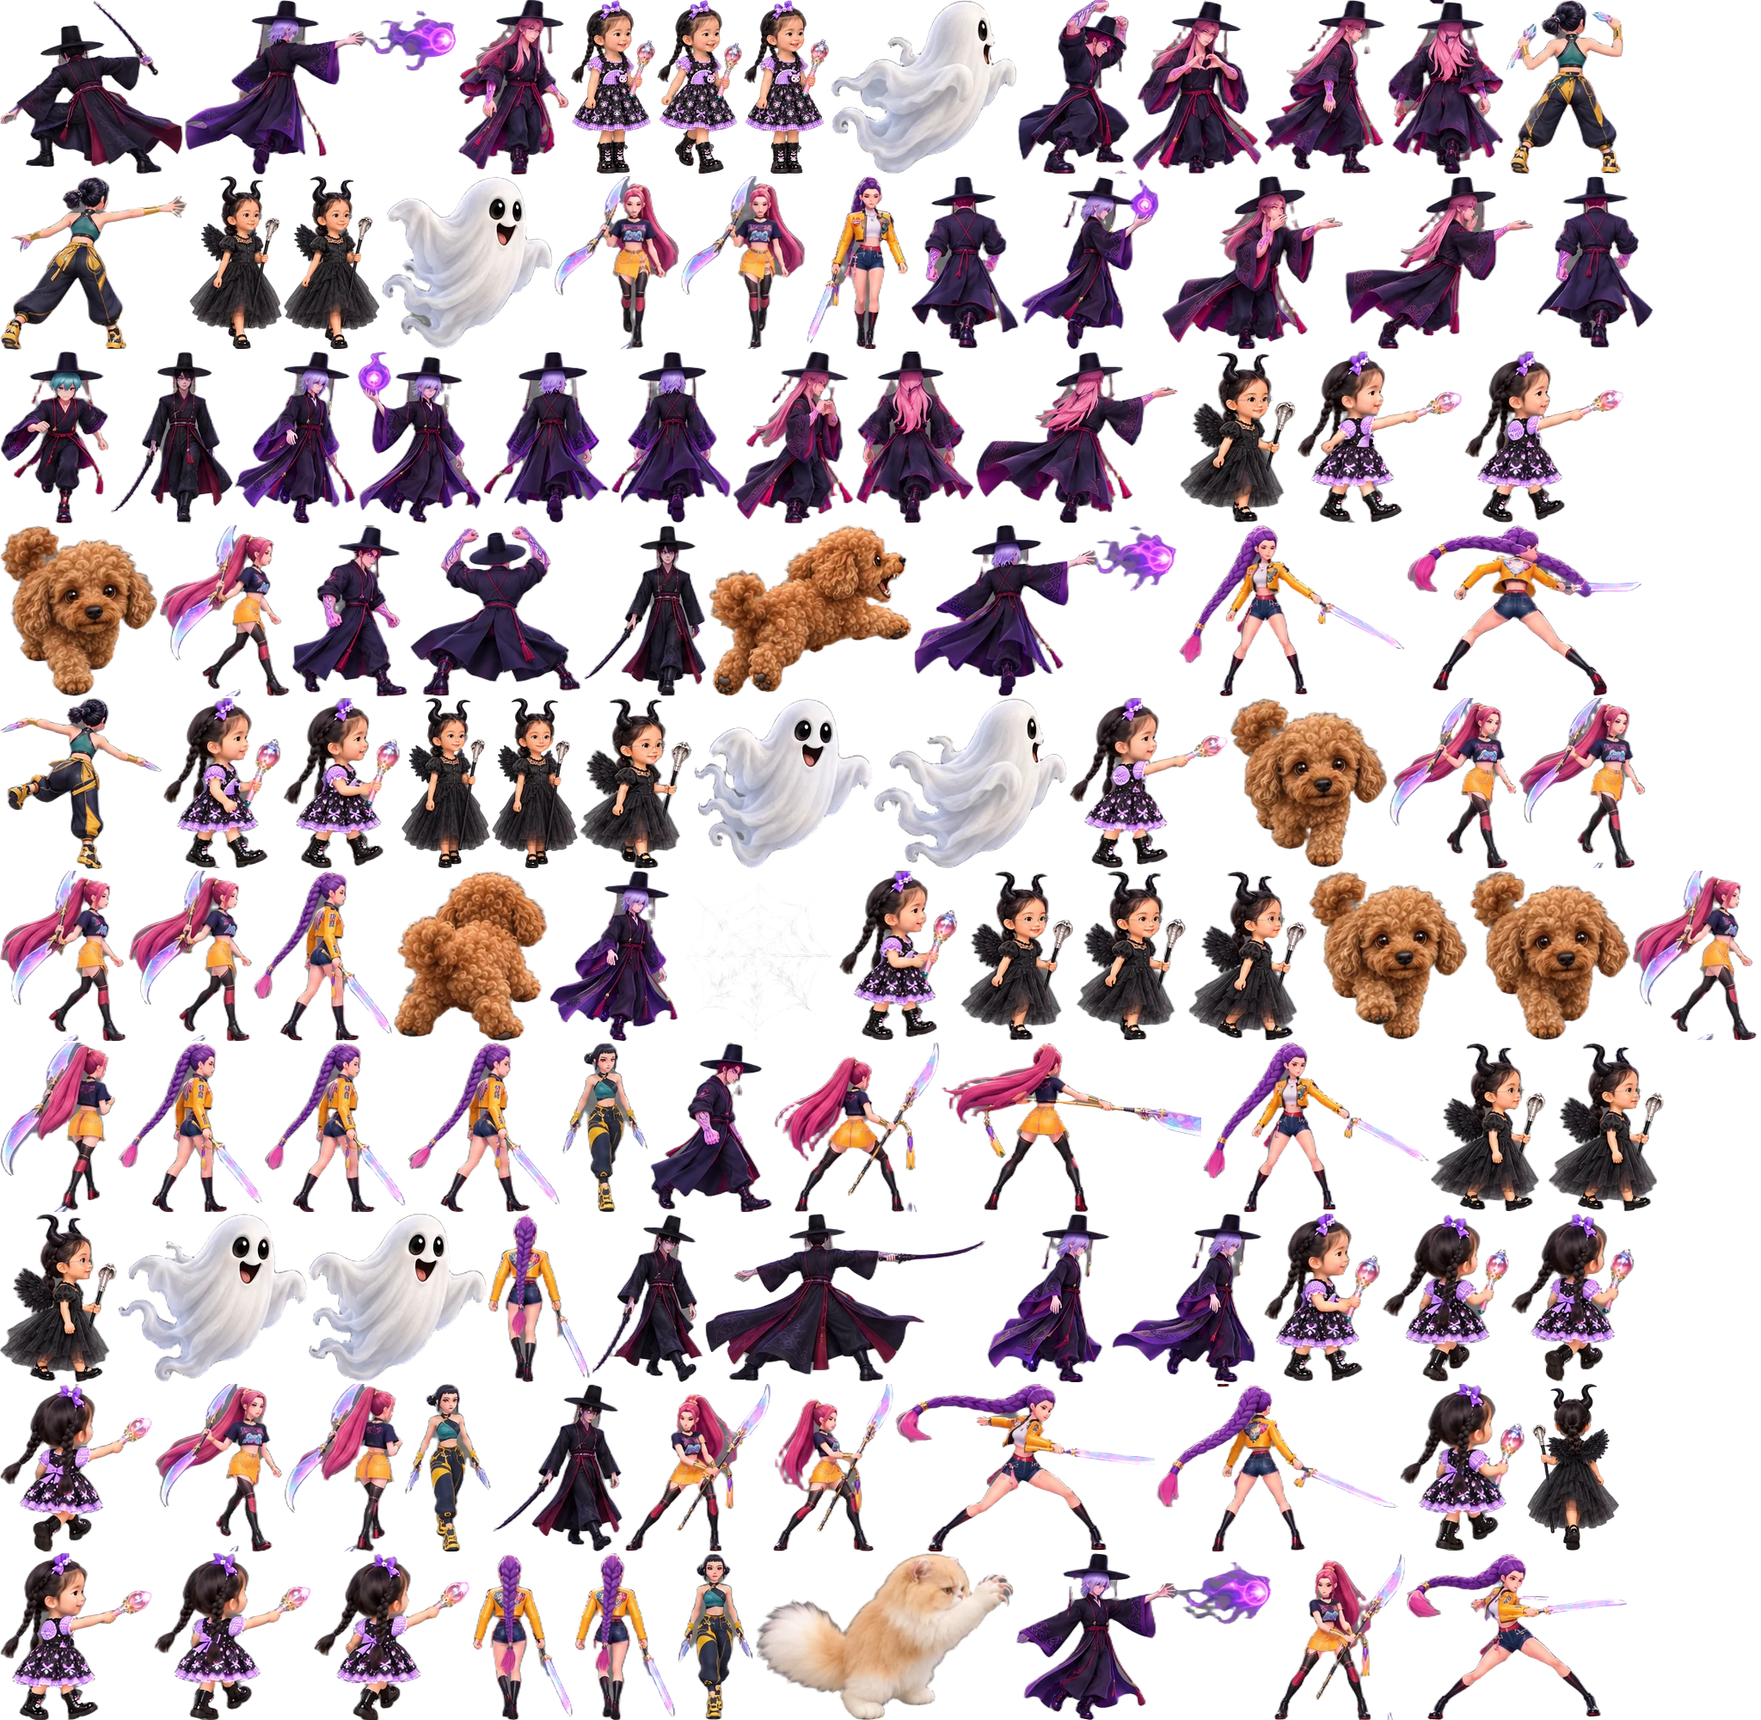
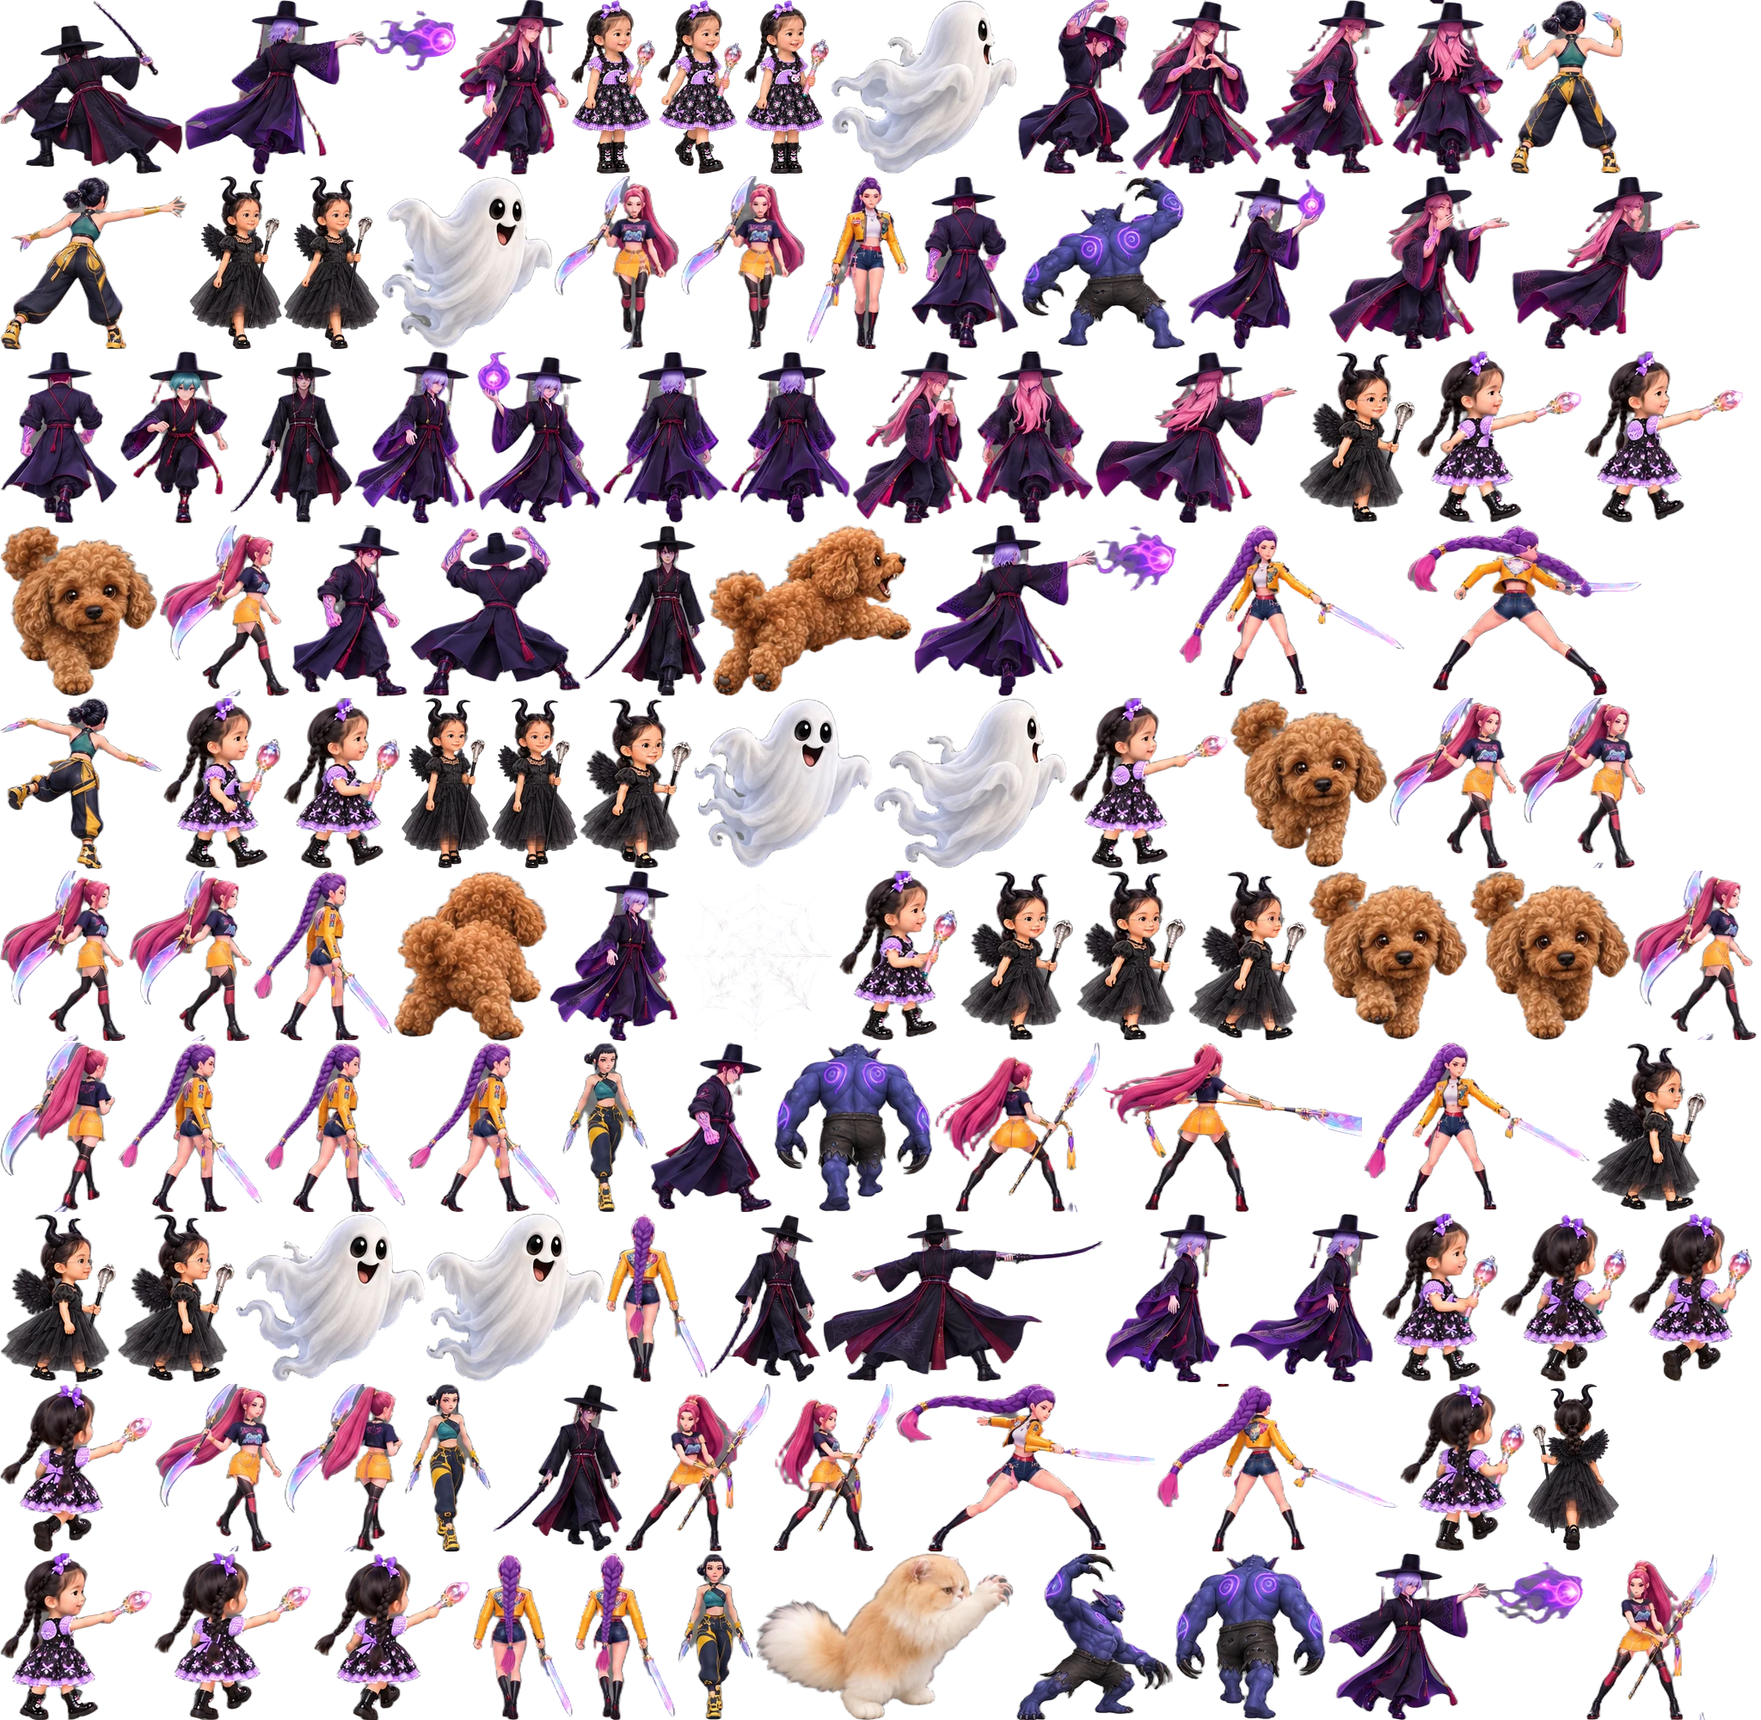
v3: màn 5 có hậu trường cho quỷ chờ (không bắn trúng được), đồ rơi xuống sân khấu, Gwi Ma gầm gọi quỷ con
Claude-Session: https://claude.ai/code/session_018CdmaGRbzjkocUF5TVUzxd

Changed region(s): [[0.0, 0.5887, 1.0, 0.8056], [0.0, 0.093, 1.0, 0.3098], [0.5625, 0.8986, 0.9688, 1.0]]

diff --git a/index.html b/index.html
@@ -485,13 +485,15 @@
     ghost:    { hp: 2, en: 7,  spd: 95,  reach: 380, prep: 0.5, atk: 0.55, cd: 1.3, fly: true, hgt: 110 },
     bat:      { hp: 1, en: 5,  spd: 150, reach: 460, prep: 0.35, atk: 0.6, cd: 1.5, fly: true, hgt: 170 },
     // the Saja Boys as demons (level 5): saja = fighting style, see updateSaja. heavy: barely knocked back
-    saja_mystery: { hp: 26, en: 20, spd: 150, prep: 0.5, atk: 0.4, cd: 2.6, saja: "phase", heavy: true, name: "Mystery" },
-    saja_abby:    { hp: 32, en: 20, spd: 120, prep: 0.7, atk: 0.45, cd: 3.0, saja: "slam", heavy: true, name: "Abby" },
-    saja_jinu:    { hp: 36, en: 20, spd: 140, prep: 0.55, atk: 0.4, cd: 2.4, saja: "blink", heavy: true, name: "Jinu" },
-    saja_baby:    { hp: 22, en: 20, spd: 190, prep: 0.35, atk: 0.35, cd: 2.4, saja: "dash", heavy: true, name: "Baby" },
-    saja_romance: { hp: 26, en: 20, spd: 140, prep: 0.6, atk: 0.4, cd: 3.0, saja: "hearts", heavy: true, name: "Romance" },
+    saja_mystery: { hp: 22, en: 20, spd: 150, prep: 0.5, atk: 0.4, cd: 2.6, saja: "phase", heavy: true, name: "Mystery" },
+    saja_abby:    { hp: 26, en: 20, spd: 120, prep: 0.7, atk: 0.45, cd: 3.0, saja: "slam", heavy: true, name: "Abby" },
+    saja_jinu:    { hp: 30, en: 20, spd: 140, prep: 0.55, atk: 0.4, cd: 2.4, saja: "blink", heavy: true, name: "Jinu" },
+    saja_baby:    { hp: 18, en: 20, spd: 190, prep: 0.35, atk: 0.35, cd: 2.4, saja: "dash", heavy: true, name: "Baby" },
+    saja_romance: { hp: 22, en: 20, spd: 140, prep: 0.6, atk: 0.4, cd: 3.0, saja: "hearts", heavy: true, name: "Romance" },
     // Gwi Ma: the flame-toad demon king, shielded until the five are down
-    gwima:        { hp: 135, en: 0, spd: 0, prep: 0.9, atk: 0.6, cd: 2.4, gwima: true, heavy: true },
+    // Gwi Ma's summoned demons (level 5): plain fighters, swept away by an ultimate
+    saja_minion:  { hp: 7, en: 8, spd: 125, prep: 0.5, atk: 0.35, cd: 1.6, saja: "claw" },
+    gwima:        { hp: 118, en: 0, spd: 0, prep: 0.9, atk: 0.6, cd: 2.4, gwima: true, heavy: true },
   };
   const SAJA = ["saja_mystery", "saja_abby", "saja_jinu", "saja_baby", "saja_romance"];
   // elemental spells from monster drops: fire burns fast, poison drains slowly, ice slows. While one is held the auto-attack also fires faster.
@@ -1092,7 +1094,7 @@
   // keeps a girl inside the world, out of a sealed arena, and inside the arena during the boss fight
   function fence(o) {
     const A = G.arena;
-    if (A && G.lvl && G.lvl.stage && G.cine) { inStage(o, 60); return; }
+    if (A && G.lvl && G.lvl.stage && G.cine) { inStage(o, 60, true); return; }
     if (A) {
       const dx = o.x - A.x, dy = o.y - A.y, d = Math.hypot(dx, dy) || 1;
       if (G.arenaLock && d > A.r - 60) { o.x = A.x + dx / d * (A.r - 60); o.y = A.y + dy / d * (A.r - 60); }
@@ -1120,13 +1122,15 @@
     };
   }
   // up to n nearest monsters (and the boss) within range r
+  // a Saja demon waiting backstage for its turn: not a target, bolts fly past it
+  const offStage = (m) => m.c.saja && m.shield;
   function nearestFoes(x, y, r, n) {
     const out = [], ds = [], rr = r * r;
     const add = (o, d) => {
       let i = out.length; while (i > 0 && ds[i - 1] > d) i--;
       if (i >= n) return; out.splice(i, 0, o); ds.splice(i, 0, d); if (out.length > n) { out.pop(); ds.pop(); }
     };
-    for (const m of G.mons) { if (!m.alive) continue; const d = d2(x, y, m.x, m.y); if (d < rr) add(m, d); }
+    for (const m of G.mons) { if (!m.alive || offStage(m)) continue; const d = d2(x, y, m.x, m.y); if (d < rr) add(m, d); }
     const B = G.boss; if (B && B.alive && B.st !== "enter") { const d = d2(x, y, B.x, B.y) - 120 * 120; if (d < rr) add(B, d); }
     return out;
   }
@@ -1178,7 +1182,7 @@
       }
       for (const m of G.mons) {
         if (s.life <= 0) break;
-        if (!m.alive || (s.hit && s.hit.has(m.id))) continue;
+        if (!m.alive || offStage(m) || (s.hit && s.hit.has(m.id))) continue;
         const rr = s.r + m.r; if (d2(s.x, s.y, m.x, m.y) > rr * rr) continue;
         hitMon(m, s.dmg, s.elem, s.x, s.y, s.kb); hitFx(s.x, s.y - BOLT_Z, s.hk);
         if (s.bounce > 0) bounceShot(s, m); else s.life = 0;
@@ -1728,12 +1732,12 @@
     let cx, cy;
     if (D.style === "sweep") {
       cx = p.x + p.ux * 120; cy = p.y + p.uy * 90;
-      for (const m of G.mons) if (m.alive && d2(m.x, m.y, cx, cy) < 300 * 300) hitIt(m);
+      for (const m of G.mons) if (m.alive && !offStage(m) && d2(m.x, m.y, cx, cy) < 300 * 300) hitIt(m);
       if (B && B.alive && d2(B.x, B.y, cx, cy) < 420 * 420) hitIt(B);
     } else {
       cx = p.ax0; cy = p.ay0; const ex = p.ax0 + p.ux * 520, ey = p.ay0 + p.uy * 380;
       const segD = (m) => { const vx = ex - cx, vy = ey - cy, l2 = vx * vx + vy * vy, t = clamp(((m.x - cx) * vx + (m.y - cy) * vy) / l2, 0, 1); return Math.hypot(m.x - cx - vx * t, m.y - cy - vy * t); };
-      for (const m of G.mons) if (m.alive && segD(m) < 130) hitIt(m);
+      for (const m of G.mons) if (m.alive && !offStage(m) && segD(m) < 130) hitIt(m);
       if (B && B.alive && segD(B) < 240) hitIt(B);
     }
     const rot = Math.atan2(p.uy, p.ux);
@@ -1785,10 +1789,21 @@
   const WAVES = [["saja_mystery", "saja_romance"], ["saja_abby", "saja_baby"], ["saja_jinu"]];
   const WAVE_MSG = [["Mystery và Romance ra trận!", "Hai quỷ đầu tiên"], ["Abby và Baby ra trận!", "Thêm hai quỷ nữa"], ["Jinu và Gwi Ma!", "Trận cuối cùng, cố lên!"]];
   const SR = { x0: -1750, x1: 1750, y0: -1250, y1: 1150 };   // the walkable stage area, relative to the arena centre
-  const SAJA_RANGE = { blink: 900, slam: 260, phase: 900, hearts: 820, dash: 700 };
+  const SAJA_RANGE = { blink: 900, slam: 260, phase: 900, hearts: 820, dash: 700, claw: 170 };
+  // backstage: two roped-off wings beside the main stage where the demons wait their turn (the girls cannot go in)
+  const BACKSTAGE = [{ x0: -1730, x1: -1060, y0: -1240, y1: -790 }, { x0: 1060, x1: 1730, y0: -1240, y1: -790 }];
+  const BACK_HOME = { saja_abby: [-1530, -930], saja_baby: [-1260, -930], saja_jinu: [1400, -930] };
   const BOY_Y = -880, GWIMA_Y = -1010;
-  function inStage(o, pad) {
+  function inStage(o, pad, keepOut) {
     const A = G.arena; o.x = clamp(o.x, A.x + SR.x0 + pad, A.x + SR.x1 - pad); o.y = clamp(o.y, A.y + SR.y0 + pad, A.y + SR.y1 - pad);
+    if (keepOut) for (const b of BACKSTAGE) {
+      const lx = o.x - A.x, ly = o.y - A.y;
+      if (lx > b.x0 - pad && lx < b.x1 + pad && ly > b.y0 && ly < b.y1 + pad) {
+        // out the nearest open side: the front, or the side next to the main stage
+        const dFront = b.y1 + pad - ly, dSide = b.x0 < 0 ? b.x1 + pad - lx : lx - (b.x0 - pad);
+        if (dFront < dSide) o.y = A.y + b.y1 + pad; else o.x = A.x + (b.x0 < 0 ? b.x1 + pad : b.x0 - pad);
+      }
+    }
   }
   function startStage() {
     const A = G.arena; A.open = true; G.arenaLock = false;
@@ -1806,7 +1821,12 @@
     SFX.portal(); showBanner("Cổng phép mới hiện ra!", "Cả nhóm cùng bước vào nhé");
     burst(A.x, A.y - 60, 50, ["#c08bff", "#ff6ec7", "#fff"], 600, 1.2);
   }
-  const stageMons = () => G.mons.filter((m) => m.alive && m.c.saja);
+  const stageMons = () => G.mons.filter((m) => m.alive && m.c.saja && m.c.name);
+  function gwimaShout() {
+    const g = gwimaMon(); if (!g) return;
+    g.shoutT = 1.6; SFX.roar(); G.shake = Math.max(G.shake, 16);
+    showBanner("Gwi Ma gầm lên!", "Quỷ con kéo tới giúp Saja Boys");
+  }
   const gwimaMon = () => G.mons.find((m) => m.c.gwima);
   // which wave a demon belongs to
   const waveOf = (k) => WAVES.findIndex((w) => w.includes(k));
@@ -1832,11 +1852,28 @@
       if (host && c.t > 7.3 && !c.spawned) {
         c.spawned = true;
         // the demons line up on the main stage; each waits (shielded) for its turn
-        SAJA.forEach((k, i) => { const m = spawnMon(k, A.x + BOYX[i], A.y + BOY_Y); m.face = 0; m.wait = true; m.shield = true; m.home = [m.x, m.y]; });
+        SAJA.forEach((k, i) => { const m = spawnMon(k, A.x + BOYX[i], A.y + BOY_Y); m.face = 0; m.wait = true; m.shield = true; const h = BACK_HOME[k] || [BOYX[i], BOY_Y]; m.home = [A.x + h[0], A.y + h[1]]; });
       }
       if (host && c.t > 9.6) { c.ph = "fight"; c.t = 0; c.lock = false; startWave(0); }
     } else if (c.ph === "fight") {
       if (host) {
+        // presents falling onto the stage now and then
+        if ((c.dropT = (c.dropT ?? 4) - dt) <= 0) {
+          c.dropT = rnd(4, 7);
+          const x = A.x + rnd(SR.x0 + 250, SR.x1 - 250), y = A.y + rnd(-700, SR.y1 - 200);
+          spawnDrop(x, y); const d = G.drops[G.drops.length - 1]; d.z = 1100; d.vz = 0; d.vx = d.vy = 0;
+        }
+        // Gwi Ma roars and calls his demons out to help
+        if ((c.shoutT = (c.shoutT ?? 9) - dt) <= 0) {
+          c.shoutT = rnd(13, 17); gwimaShout();
+          if (NET.role) netEmit("shout", { to: NET.partner });
+          const n = Math.max(0, Math.min(c.wave === 2 ? 4 : 3, 6 - G.mons.filter((m) => m.alive && m.kind === "saja_minion").length));
+          for (let i = 0; i < n; i++) setTimeout(() => {
+            if (!G.cine || G.cine.ph !== "fight") return;
+            const side = i % 2 ? 1 : -1, m = spawnMon("saja_minion", A.x + side * rnd(300, 950), A.y - 820);
+            m.summoned = true; m.face = 0; burst(m.x, m.y - 150, 26, ["#5b2bd6", "#c08bff", "#3a0d4f"], 360, 0.8);
+          }, 600 + i * 250);
+        }
         const left = stageMons().filter((m) => waveOf(m.kind) === c.wave).length, g = gwimaMon();
         if (c.wave < 2 && !left) startWave(c.wave + 1);
         else if (c.wave === 2 && !left && (!g || !g.alive)) { c.ph = "outro"; c.t = 0; c.lock = true; for (const m of G.mons) if (m.alive) killMon(m, false); }
@@ -1852,7 +1889,7 @@
   // a health bar for each demon (and Gwi Ma) that is fighting right now
   function renderStageBars() {
     const box = $("sbars"), c = G.cine;
-    const list = c && c.ph === "fight" ? G.mons.filter((m) => m.alive && (m.c.saja || m.c.gwima) && !m.wait && !m.shield) : [];
+    const list = c && c.ph === "fight" ? G.mons.filter((m) => m.alive && (m.c.name || m.c.gwima) && !m.shield) : [];
     const key = list.map((m) => m.id).join();
     if (box.dataset.key !== key) {
       box.dataset.key = key; box.innerHTML = "";
@@ -1921,6 +1958,16 @@
     // the silver stage: main stage, runway, catwalk
     const sil = ctx.createLinearGradient(0, Y(-1180), 0, Y(-40)); sil.addColorStop(0, "#c9c4d8"); sil.addColorStop(1, "#8f89a6");
     box(-1000, -1180, 1000, -760, sil, "#efeaff"); box(-120, -770, 120, -220, sil, "#efeaff"); box(-1350, -230, 1350, -60, sil, "#efeaff");
+    // backstage wings, roped off
+    for (const b of BACKSTAGE) {
+      box(b.x0, b.y0, b.x1, b.y1, "rgba(90,20,40,.75)", "rgba(255,90,120,.6)");
+      ctx.strokeStyle = "#d9b36a"; ctx.lineWidth = 6;
+      for (let x = b.x0 + 40; x <= b.x1 - 30; x += 110) {
+        ctx.beginPath(); ctx.moveTo(X(x), Y(b.y1 + 4)); ctx.lineTo(X(x), Y(b.y1 - 46)); ctx.stroke();
+        if (x + 110 <= b.x1 - 30) { ctx.strokeStyle = "#b3122f"; ctx.lineWidth = 9; ctx.beginPath(); ctx.moveTo(X(x), Y(b.y1 - 40)); ctx.quadraticCurveTo(X(x + 55), Y(b.y1 - 10), X(x + 110), Y(b.y1 - 40)); ctx.stroke(); ctx.strokeStyle = "#d9b36a"; ctx.lineWidth = 6; }
+      }
+      ctx.font = "800 46px Grandstander, system-ui"; ctx.textAlign = "center"; ctx.fillStyle = "rgba(255,200,210,.5)"; ctx.fillText("HẬU TRƯỜNG", X((b.x0 + b.x1) / 2), Y(b.y0 + 70));
+    }
     // fan zone labels
     ctx.font = "800 60px Grandstander, system-ui"; ctx.textAlign = "center"; ctx.fillStyle = "rgba(255,255,255,.35)";
     ctx.fillText("FANZONE A", X(-700), Y(-470)); ctx.fillText("FANZONE B", X(700), Y(-470)); ctx.fillText("STAGE", X(0), Y(-960));
@@ -1997,6 +2044,11 @@
       // Romance: a fan of charm hearts that slow whoever they touch
       for (let i = -2; i <= 2; i++) { const a = Math.atan2(uy, ux) + i * 0.22; G.foes.push({ type: "heart", x: m.x + Math.cos(a) * 60, y: m.y + Math.sin(a) * 40, vx: Math.cos(a) * 520, vy: Math.sin(a) * 520, life: 2.0 }); }
       play("web");
+    } else if (c.saja === "claw") {
+      // a summoned demon: one big claw swipe
+      G.parts.push({ type: "claw", x: m.x + ux * 90, y: m.y + uy * 60 - 60, vx: 0, vy: 0, rot: Math.atan2(uy, ux), life: 0.3, max: 0.3 });
+      for (const g of girls()) if (d2(m.x + ux * 80, m.y + uy * 60, g.x, g.y) < 160 * 160) hurtTarget(g, m.x, m.y);
+      SFX.swoosh();
     } else if (c.saja === "dash") {
       // Baby: three quick dashes in a row
       m.vx = ux * 1150; m.vy = uy * 1150; play("swoosh");
@@ -2025,6 +2077,7 @@
     if (!m.alive) return "gwima_d1_w2";
     if (c && c.ph === "intro") return c.t > 4.8 && c.t < 7.4 ? "gwima_d0_w2" : c.t > 2.4 && c.t < 4.8 ? "gwima_d0_w1" : "gwima_d0_w0";
     if (m.hurt > 0 || m.flash > 0.08 && !m.shield) return "gwima_d1_w0";
+    if (m.shoutT > 0) return "gwima_d0_w3";
     if (m.st === "prep") return "gwima_d0_w2";
     if (m.st === "atk") return m.cyc % 3 === 1 ? "gwima_d1_w1" : "gwima_d0_w3";
     return Math.floor(G.t * 1.2) % 4 === 0 ? "gwima_d0_w1" : "gwima_d0_w0";
@@ -2035,6 +2088,7 @@
     shadow(m.x, m.y, 260, 50, 0.35 * a);
     spr(f, m.x, m.y + bob, false, 1, a);
     if (m.flash > 0) sprFlash(f, m.x, m.y + bob, false, 1, 0.5);
+    if ((m.shoutT = (m.shoutT || 0) - 1 / 60) > 0) { label("GRÀOOO!", m.x, m.y - 760 + Math.sin(G.t * 30) * 8, 110, "#ff3d7f"); glow(m.x, m.y - 420, 600, "255,40,90", 0.4 * Math.min(1, m.shoutT)); }
     if (G.cine && G.cine.ph === "intro" && G.cine.t > 2.5 && G.cine.t < 4.8) label("Ha ha ha!", m.x + 260, m.y - 600 + Math.sin(G.t * 12) * 10, 80, "#ff6ec7");
     if (m.shield && !(G.cine && G.cine.ph === "intro")) {
       ctx.save(); ctx.globalCompositeOperation = "lighter";
@@ -2171,7 +2225,7 @@
     // the stage demons and Gwi Ma lose a tenth of their health (half on a combo) instead of dying at once
     const all = mult > 1;
     for (const m of G.mons) {
-      if (!m.alive || (!all && !(Math.abs(m.x - cx) < hw && Math.abs(m.y - cy) < hh))) continue;
+      if (!m.alive || offStage(m) || (!all && !(Math.abs(m.x - cx) < hw && Math.abs(m.y - cy) < hh))) continue;
       if (m.c.heavy) damageMon(m, Math.ceil(m.max * 0.1 * mult), m.x, m.y, true, "p");
       else killMon(m, false);
     }
@@ -2536,7 +2590,7 @@
     if (m.alive && m.burn > 0) drawFlames(m.x, cy, m.r * 2.4, fly ? 170 : 170, m.ph);
     if (m.flash > 0) sprFlash(f, m.x, y, flip, mul, 0.6, rot);
     if (m.kind === "witch" && m.st === "prep" && m.alive) glow(m.x + (flip ? -50 : 50), y - 60, 50, "130,255,90", 0.5);
-    if (m.c.saja && m.alive) label(m.c.name, m.x, m.y - f.ay * f.s * mul - 40, 30, "#ffb3e6");
+    if (m.c.name && m.alive) label(m.c.name, m.x, m.y - f.ay * f.s * mul - 40, 30, "#ffb3e6");
     // health pips once hurt
     if (m.alive && m.hp < m.max && !m.c.heavy) {
       const top = (fly ? y - f.ay * f.s * mul : m.y - f.ay * f.s * mul) - 16, n = Math.min(m.max, 12), w = 13, filled = Math.ceil(m.hp / m.max * n);
@@ -3260,7 +3314,7 @@
       }
       renderCoop();
     }, () => { if (NET.state === "ok") { NET.state = "none"; NET.room = null; renderCoop(); } });
-    for (const t of ["start", "hits", "ult", "shoo", "portal", "hurt", "pick", "gain", "shots", "xp", "pet", "combo"]) room.on(t, onNet, () => {});
+    for (const t of ["start", "hits", "ult", "shoo", "portal", "hurt", "pick", "gain", "shots", "xp", "pet", "combo", "shout"]) room.on(t, onNet, () => {});
     renderCoop();
   }
 
@@ -3445,6 +3499,7 @@
       } else if (msg.topic === "gain") addEnergy(clamp(num(d.n), 0, 30), num(d.x), num(d.y));
       else if (msg.topic === "xp") { gainXp(clamp(Math.floor(num(d.n)), 0, 200)); play("gem"); }
       else if (msg.topic === "combo") comboUlt(false);
+      else if (msg.topic === "shout") gwimaShout();
       else if (msg.topic === "pet" && PETS[d.k] && (PETS[d.k].owner === hero || isAlly(d.k))) rescuePet(d.k);
     }
   }
